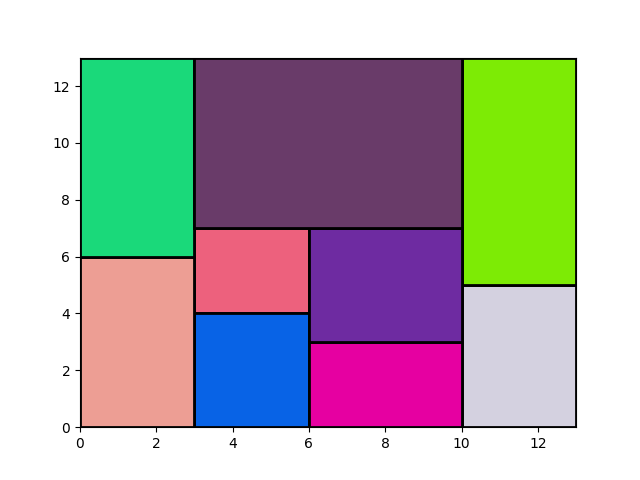
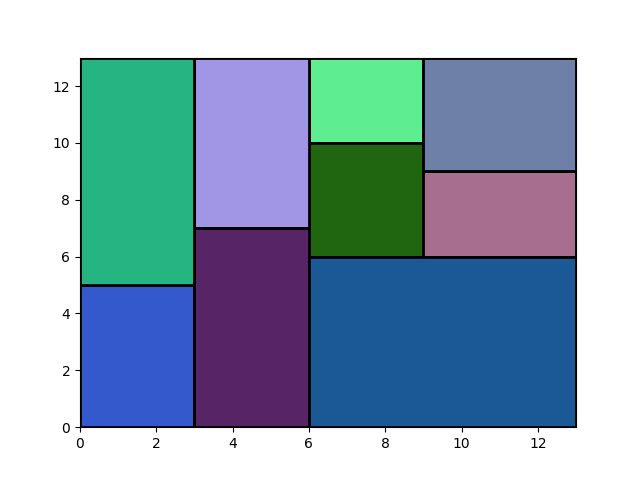
merge resolve

diff --git a/SMT/src/test.py b/SMT/src/test.py
@@ -1,0 +1,94 @@
+from pysmt.typing import *
+from pysmt.shortcuts import *
+import numpy as np
+import matplotlib.pyplot as plt
+import os
+from random import randint
+import matplotlib.pyplot as plt
+from matplotlib.patches import Rectangle
+import time
+from itertools import combinations
+import utils.utils as ut
+
+def free_solver(w, n, min_h, max_h, chip_w, chip_h):
+    
+    x_position = [Symbol(f"x_pos{s}", INT) for s in range(n)]
+    y_position = [Symbol(f"y_pos{s}", INT) for s in range(n)]
+
+    for h in range(min_h, max_h + 1):
+        
+        print("current h: ", h)
+        with Solver(name=Theory) as solver:
+
+            #Constrains
+            ##Boundaries
+            solver.add_assertion(And([And(0 <= x_position[i], x_position[i] <= w - chip_w[i])
+                                    for i in range(n)]))
+
+            solver.add_assertion(And([And(0 <= y_position[i], y_position[i] <= h - chip_h[i])
+                                    for i in range(n)]))
+
+            ##No Overlap
+            for (i,j) in combinations(range(n), 2):
+                    solver.add_assertion(Or(y_position[i] + chip_h[i] <= y_position[j],
+                                            y_position[j] + chip_h[j] <= y_position[i],
+                                            x_position[i] + chip_w[i] <= x_position[j],
+                                            x_position[j] + chip_w[j] <= x_position[i]))
+
+            ##Cumulatively on the columns
+            for u in range(w):
+                solver.add_assertion(h >= Plus([Iff(And(x_position[i] <= u, u < x_position[i] + chip_w[i]),
+                                          chip_h[i], 0) for i in range(n)]))
+
+
+            # for u in range(w):
+            #     s.add(h >= Sum([If(And(x_positions[i] <= u, u < x_positions[i] + chip_w[i]),
+            #                                  chip_h[i], 0) for i in range(n)]))
+
+            if not solver.solve():
+                print("Domain is not SAT!!!")
+                exit()
+            else:
+
+                m = solver.get_model()
+                print(m)
+                x_pos = []
+                for i in range(n):
+                    x_pos.append(m[x_position[i]])
+                y_pos = []
+                for i in range(n):
+                    y_pos.append(m[y_position[i]])
+
+            return m, x_pos, y_pos, h
+
+
+def ToInt(element):
+    new_list = []
+    for i in range(len(element)):
+        new_list.append(element[i]._content[2])   
+    return new_list
+
+
+Theory = "z3"
+for i in range(1,10):
+    f = ut.load_data(i)
+    w = f[0]
+    n = f[1]
+    chip_w = f[2].tolist()
+    chip_h = f[3].tolist()
+    min_h = sum([chip_w[k] * chip_h[k] for k in range(n)]) // w
+    max_h = sum(chip_h)
+    print("current i", i)
+    print(w, n, min_h, max_h, chip_w, chip_h)
+
+    resul = free_solver(w, n, min_h, max_h, chip_w, chip_h)
+
+
+    out_pat = os.path.join(
+        os.path.dirname(__file__),
+        '../out_img/plot' + str(i) + '.png'
+        )
+    ut.plot_device(pos_x= ToInt(resul[1]), pos_y = ToInt(resul[2]), widths=  chip_w, heights = chip_h, w= w, 
+        h= resul[3],  img_path=out_pat,  rotations = [] )
+
+ 

diff --git a/SMT/src/other_theories.py b/SMT/src/other_theories.py
@@ -1,0 +1,91 @@
+from pysmt.typing import *
+from pysmt.shortcuts import *
+
+import numpy as np
+import matplotlib.pyplot as plt
+import os
+from random import randint
+import matplotlib.pyplot as plt
+from matplotlib.patches import Rectangle
+import time
+from itertools import combinations
+import utils.utils as ut
+import sexpr
+
+i = 1
+f = ut.load_data(i)
+w = f[0]
+n = f[1]
+chip_w = f[2].tolist()
+chip_h = f[3].tolist()
+min_h = sum([chip_w[k] * chip_h[k] for k in range(n)]) // w
+max_h = sum(chip_h)
+print("current i", i)
+print(w, n, min_h, max_h, chip_w, chip_h)
+
+h = min_h
+
+x_position = [Symbol(f"x_pos{s}", INT) for s in range(n)]
+y_position = [Symbol(f"y_pos{s}", INT) for s in range(n)]
+
+
+          
+        
+
+
+with Solver(name="z3") as solver:
+    solver.add_assertion(And([And(0 <= x_position[i], x_position[i] <= w - chip_w[i])
+                             for i in range(n)]))
+
+    solver.add_assertion(And([And(0 <= y_position[i], y_position[i] <= h - chip_h[i])
+                              for i in range(n)]))
+
+    for (i,j) in combinations(range(n), 2):
+              solver.add_assertion(Or(y_position[i] + chip_h[i] <= y_position[j],
+                                       y_position[j] + chip_h[j] <= y_position[i],
+                                       x_position[i] + chip_w[i] <= x_position[j],
+                                       x_position[j] + chip_w[j] <= x_position[i]))
+
+
+
+    if not solver.solve():
+        print("Domain is not SAT!!!")
+        exit()
+    else:
+
+        m = solver.get_model()
+        print(m)
+        x_pos = []
+        for i in range(n):
+            x_pos.append(m[x_position[i]])
+        y_pos = []
+        for i in range(n):
+            y_pos.append(m[y_position[i]])
+
+
+print(x_pos)
+print(y_pos)
+print(min_h)
+ 
+print(type(y_pos[1]._content[2]))
+
+def ToInt(element):
+    new_list = []
+    for i in range(len(element)):
+        new_list.append(element[i]._content[2])   
+    return new_list
+
+
+
+out_pat = os.path.join(
+    os.path.dirname(__file__),
+    '../out_img/plot' + str(57) + '.png'
+    )
+
+ut.plot_device(pos_x= ToInt(x_pos), pos_y = ToInt(y_pos), widths=  chip_w, heights = chip_h, w= w, 
+h= min_h,  img_path=out_pat,  rotations = [] )
+
+
+
+
+
